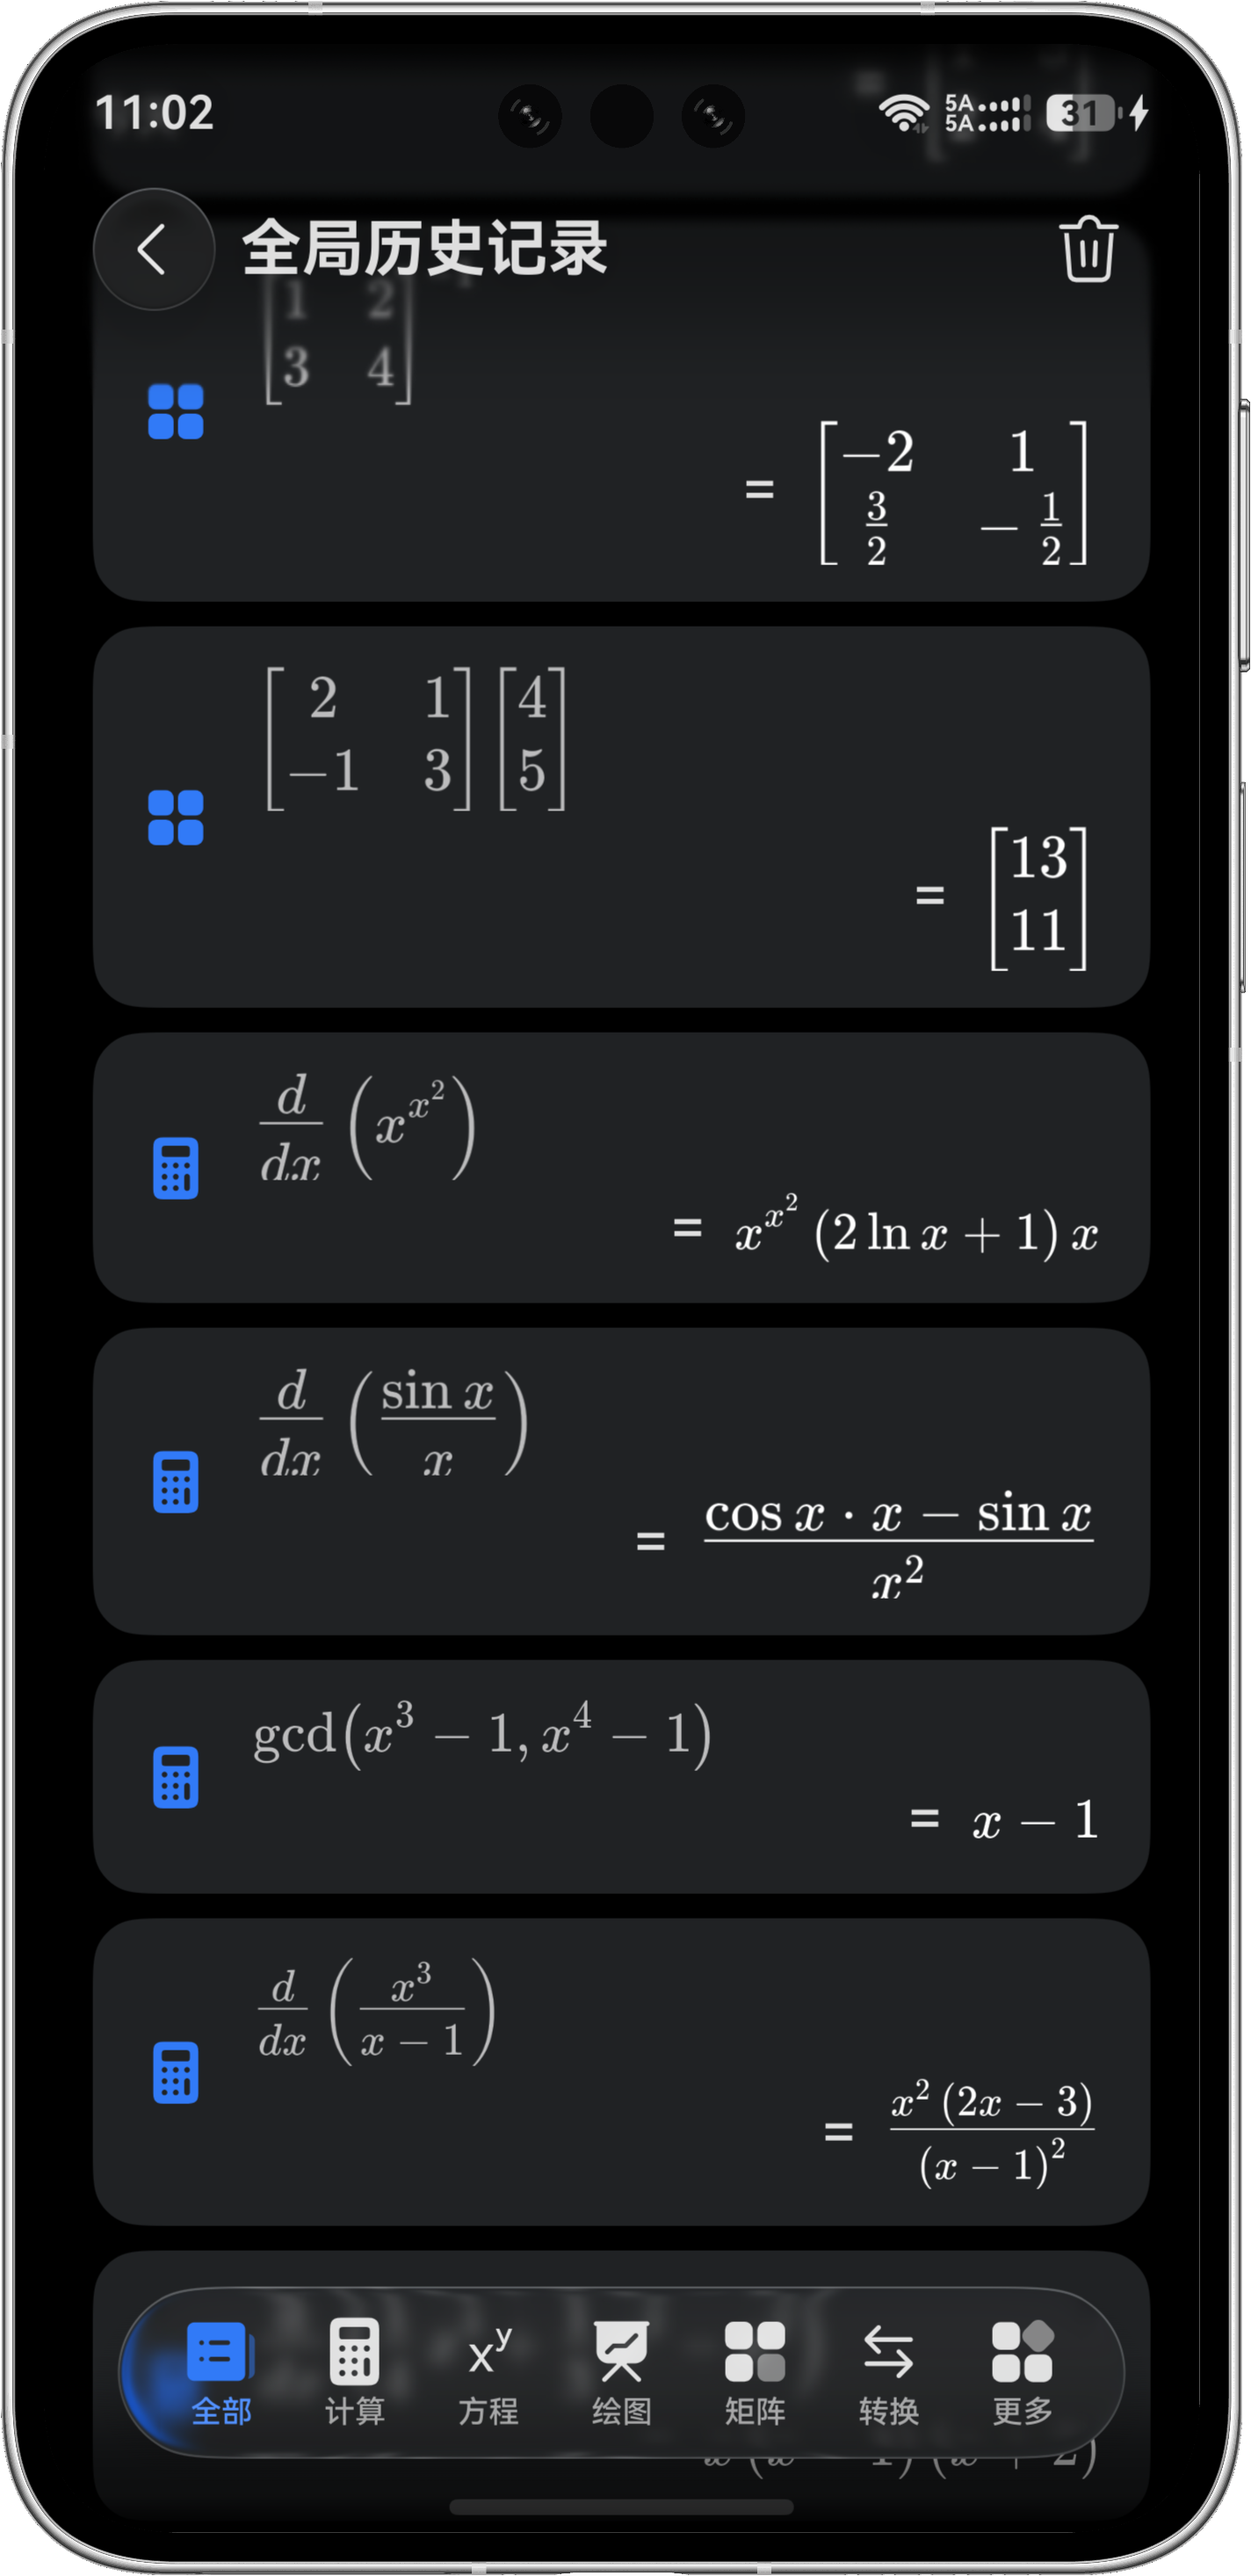
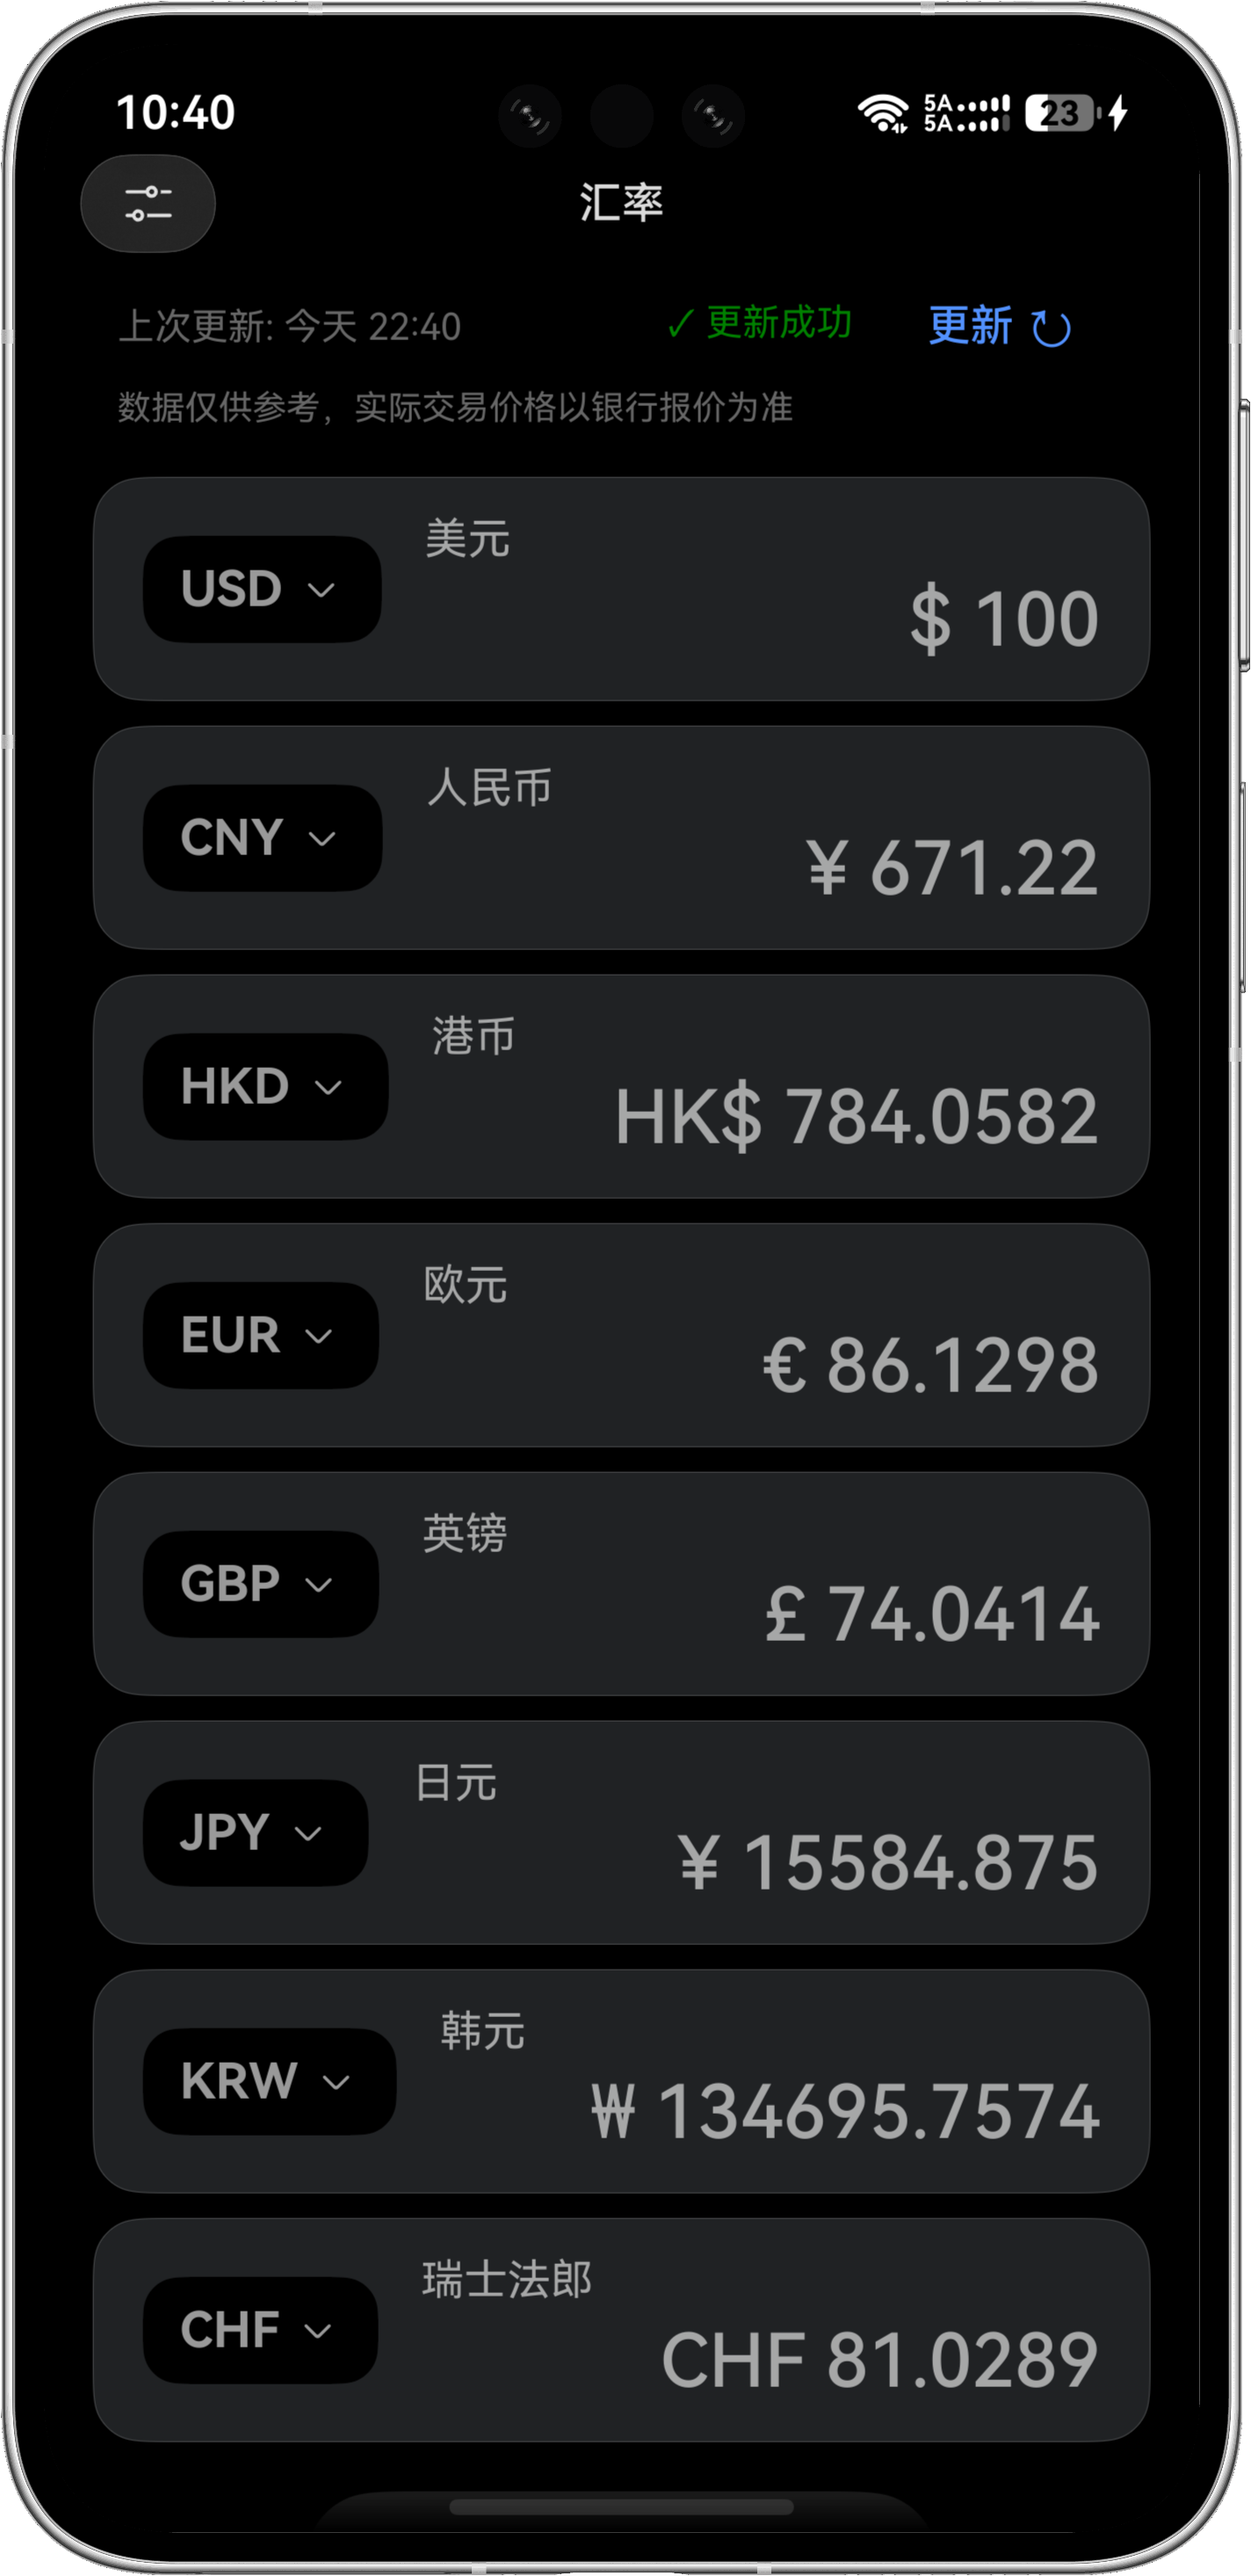
转为webp

Changed region(s): [[0.0618, 0.0, 0.927, 0.9625]]

diff --git a/src/styles/sections/capabilities.css b/src/styles/sections/capabilities.css
@@ -78,8 +78,7 @@
   position: relative;
   display: grid;
   grid-template-columns: repeat(3, 1fr);
-  border-top: 1px solid rgba(255, 255, 255, .18);
-  border-left: 1px solid rgba(255, 255, 255, .18);
+  gap: clamp(16px, 1.6vw, 22px);
 }
 .capability-card {
   position: relative;
@@ -88,8 +87,10 @@
   flex-direction: column;
   padding: 30px;
   overflow: hidden;
-  border-right: 1px solid rgba(255, 255, 255, .18);
-  border-bottom: 1px solid rgba(255, 255, 255, .18);
+  background: rgba(255, 255, 255, .045);
+  border: 1px solid rgba(255, 255, 255, .14);
+  border-radius: 28px;
+  box-shadow: 0 18px 50px rgba(0, 0, 0, .12);
 }
 /* 能力卡片左上角编号 */
 .capability-index {
@@ -111,7 +112,8 @@
   font-size: 2rem;
   transition: transform 350ms var(--ease), border-radius 350ms var(--ease);
 }
-.capability-card:hover .capability-icon {
+.capability-card:hover .capability-icon,
+.capability-card:focus-visible .capability-icon {
   border-radius: 20% 50% 50% 50%;
   transform: rotate(-10deg) scale(1.1);
 }
@@ -141,26 +143,33 @@
 }
 .capability-card__line {
   position: absolute;
-  right: 0;
-  bottom: 0;
-  left: 0;
-  height: 3px;
-  background: #7fa2ff;
-  transform: scaleX(0);
-  transform-origin: left;
-  transition: transform 420ms var(--ease);
+  inset: 2px;
+  width: calc(100% - 4px);
+  height: calc(100% - 4px);
+  overflow: visible;
+  color: #7fa2ff;
+  pointer-events: none;
+}
+.capability-card__line path {
+  fill: none;
+  stroke: currentColor;
+  stroke-width: .75;
+  stroke-linecap: round;
+  stroke-linejoin: round;
+  transition: stroke-dashoffset 680ms var(--ease);
 }
 .capability-card.accent-orange .capability-card__line {
-  background: #ff8465;
+  color: #ff8465;
 }
 .capability-card.accent-violet .capability-card__line {
-  background: #a995ff;
+  color: #a995ff;
 }
 .capability-card.accent-green .capability-card__line {
-  background: #72dcb3;
+  color: #72dcb3;
 }
-.capability-card:hover .capability-card__line {
-  transform: scaleX(1);
+.capability-card:hover .capability-card__line path,
+.capability-card:focus-visible .capability-card__line path {
+  stroke-dashoffset: 0;
 }
 @media (max-width: 900px) {
 
@@ -216,11 +225,13 @@
 
   .capability-grid {
     grid-template-columns: 1fr;
+    gap: 14px;
   }
 
   .capability-card {
     min-height: 300px;
     padding: 25px;
+    border-radius: 22px;
   }
 
   /* 手机端：能力卡片圆形图标尺寸 */

diff --git a/src/components/sections/CapabilitiesSection.tsx b/src/components/sections/CapabilitiesSection.tsx
@@ -2,6 +2,15 @@ import { useRef } from 'react'
 import { gsap, useGSAP } from '../../animations/gsap'
 import { useContent } from '../../i18n/LocaleContext'
 
+const capabilityLinks = [
+  '/docs/scientific/overview',
+  '/docs/equations/overview',
+  '/docs/matrix/overview',
+  '/docs/graphing/overview',
+  '/docs/exchange/overview',
+  '/docs/history',
+] as const
+
 export default function CapabilitiesSection() {
   const root = useRef<HTMLElement>(null)
   const { capabilities } = useContent()
@@ -54,13 +63,16 @@ export default function CapabilitiesSection() {
       <div className="shell">
         <div className="capability-grid">
           {capabilities.items.map((item, index) => (
-            <article className={`capability-card accent-${item.accent}`} key={item.title}>
+            <a className={`capability-card accent-${item.accent}`} href={capabilityLinks[index]} key={item.title}>
               <span className="capability-index">0{index + 1}</span>
               <span className="capability-icon" aria-hidden="true">{item.icon}</span>
               <h3>{item.title}</h3>
               <p>{item.description}</p>
-              <span className="capability-card__line" aria-hidden="true" />
-            </article>
+              <svg className="capability-card__line" viewBox="0 0 100 100" preserveAspectRatio="none" aria-hidden="true">
+                <path strokeDasharray="207 207" strokeDashoffset="207" d="M 8 100 Q 0 100 0 92 V 8 Q 0 0 8 0 H 92 Q 100 0 100 8" />
+                <path strokeDasharray="181 181" strokeDashoffset="181" d="M 8 100 H 92 Q 100 100 100 92 V 8" />
+              </svg>
+            </a>
           ))}
         </div>
       </div>

diff --git a/src/data/locales/en.ts b/src/data/locales/en.ts
@@ -57,7 +57,7 @@ const en: SiteContent = {
         id: 'exact', tab: 'Exact results', eyebrow: 'Exact or approximate — you choose', title: 'An answer can be more than a decimal',
         description: 'CalculatorX preserves fractions, radicals, π, and symbolic expressions whenever possible. S⇄D gives you an approximation when you want one.',
         points: ['Symbolic results and high-precision decimals', 'Fractions, mixed numbers, and DMS', 'Textbook-quality LaTeX typesetting'],
-        lightSrc: '/images/product/exact.png', darkSrc: '/images/product/exact-dark.png',
+        lightSrc: '/images/product/exact.webp', darkSrc: '/images/product/exact-dark.webp',
         alt: 'CalculatorX displaying one third as an exact fraction', fallbackFormula: '√8 = 2√2', fallbackLabel: 'Exact calculation screen',
       },
       {

diff --git a/src/components/sections/HeroSection.tsx b/src/components/sections/HeroSection.tsx
@@ -74,8 +74,8 @@ export default function HeroSection() {
           <div className="hero-product-anchor">
             <div className="hero-product-frame">
               <div className="hero-phone">
-                <img className="theme-image theme-image--light" src="/images/product/scientific.png" alt={hero.visualAlt} />
-                <img className="theme-image theme-image--dark" src="/images/product/scientific-dark.png" alt={hero.visualAlt} />
+                <img className="theme-image theme-image--light" src="/images/product/scientific.webp" alt={hero.visualAlt} />
+                <img className="theme-image theme-image--dark" src="/images/product/scientific-dark.webp" alt={hero.visualAlt} />
               </div>
             </div>
           </div>

diff --git a/src/data/locales/zh.ts b/src/data/locales/zh.ts
@@ -57,7 +57,7 @@ const zh: SiteContent = {
         id: 'exact', tab: '精确计算', eyebrow: '精确与近似，自由切换', title: '答案不止是一个小数',
         description: 'CalculatorX 会尽可能保留分数、根式、π 和符号表达式。需要近似值时，再通过 S⇄D 快速切换。',
         points: ['符号结果与高精度小数', '分数、带分数与度分秒', '教科书级 LaTeX 排版'],
-        lightSrc: '/images/product/exact.png', darkSrc: '/images/product/exact-dark.png',
+        lightSrc: '/images/product/exact.webp', darkSrc: '/images/product/exact-dark.webp',
         alt: 'CalculatorX 将一除以三显示为精确分数', fallbackFormula: '√8 = 2√2', fallbackLabel: '精确计算界面',
       },
       {

diff --git a/index.html b/index.html
@@ -6,7 +6,7 @@
     <meta name="description" content="从精确计算、微积分和方程，到矩阵、函数图像与实时汇率。CalculatorX 是面向 HarmonyOS NEXT 的原生数学工作区。" />
     <meta name="theme-color" content="#f7f7f5" media="(prefers-color-scheme: light)" />
     <meta name="theme-color" content="#090a0c" media="(prefers-color-scheme: dark)" />
-    <link rel="icon" type="image/png" href="/images/app-icon.png" />
+    <link rel="icon" type="image/png" href="/images/app-icon.webp" />
     <link rel="canonical" href="https://calcx.startyi.com/" />
     <link rel="alternate" hreflang="zh-CN" href="https://calcx.startyi.com/" />
     <link rel="alternate" hreflang="en" href="https://calcx.startyi.com/en/" />

diff --git a/en/index.html b/en/index.html
@@ -6,7 +6,7 @@
     <meta name="description" content="From exact computation and equations to matrices, graphing, and live currency conversion — in one native HarmonyOS NEXT math workspace." />
     <meta name="theme-color" content="#f7f7f5" media="(prefers-color-scheme: light)" />
     <meta name="theme-color" content="#090a0c" media="(prefers-color-scheme: dark)" />
-    <link rel="icon" type="image/png" href="/images/app-icon.png" />
+    <link rel="icon" type="image/png" href="/images/app-icon.webp" />
     <link rel="canonical" href="https://calcx.startyi.com/en/" />
     <link rel="alternate" hreflang="zh-CN" href="https://calcx.startyi.com/" />
     <link rel="alternate" hreflang="en" href="https://calcx.startyi.com/en/" />

diff --git a/src/components/sections/DownloadSection.tsx b/src/components/sections/DownloadSection.tsx
@@ -34,7 +34,7 @@ export default function DownloadSection() {
         <p className="download__description">{download.description}</p>
         <div className="download__actions">
           <a className="store-button" href={APP_GALLERY_URL} target="_blank" rel="noreferrer">
-            <img src="/images/appgallery-icon.png" alt="" width="46" height="46" />
+            <img src="/images/appgallery-icon.webp" alt="" width="46" height="46" />
             <span><small>EXPLORE IT ON</small><strong>{download.appGallery}</strong></span>
           </a>
           <a className="button button--dark button--large" href={RELEASES_URL} target="_blank" rel="noreferrer">

diff --git a/src/components/layout/Header.tsx b/src/components/layout/Header.tsx
@@ -57,7 +57,7 @@ export default function Header() {
     <header ref={header} className={`site-header ${scrolled ? 'is-scrolled' : ''}`}>
       <div className="site-header__inner shell">
         <a className="brand" href={locale === 'en' ? '/en/' : '/'} aria-label="CalculatorX home">
-          <img src="/images/app-icon.png" alt="" width="34" height="34" />
+          <img src="/images/app-icon.webp" alt="" width="34" height="34" />
           <span>Calculator<span>X</span></span>
         </a>
 

diff --git a/src/components/layout/Footer.tsx b/src/components/layout/Footer.tsx
@@ -10,7 +10,7 @@ export default function Footer() {
       <div className="shell site-footer__grid">
         <div>
           <a className="brand brand--footer" href={locale === 'en' ? '/en/' : '/'}>
-            <img src="/images/app-icon.png" alt="" width="40" height="40" />
+            <img src="/images/app-icon.webp" alt="" width="40" height="40" />
             <span>Calculator<span>X</span></span>
           </a>
           <p>{footer.statement}</p>
